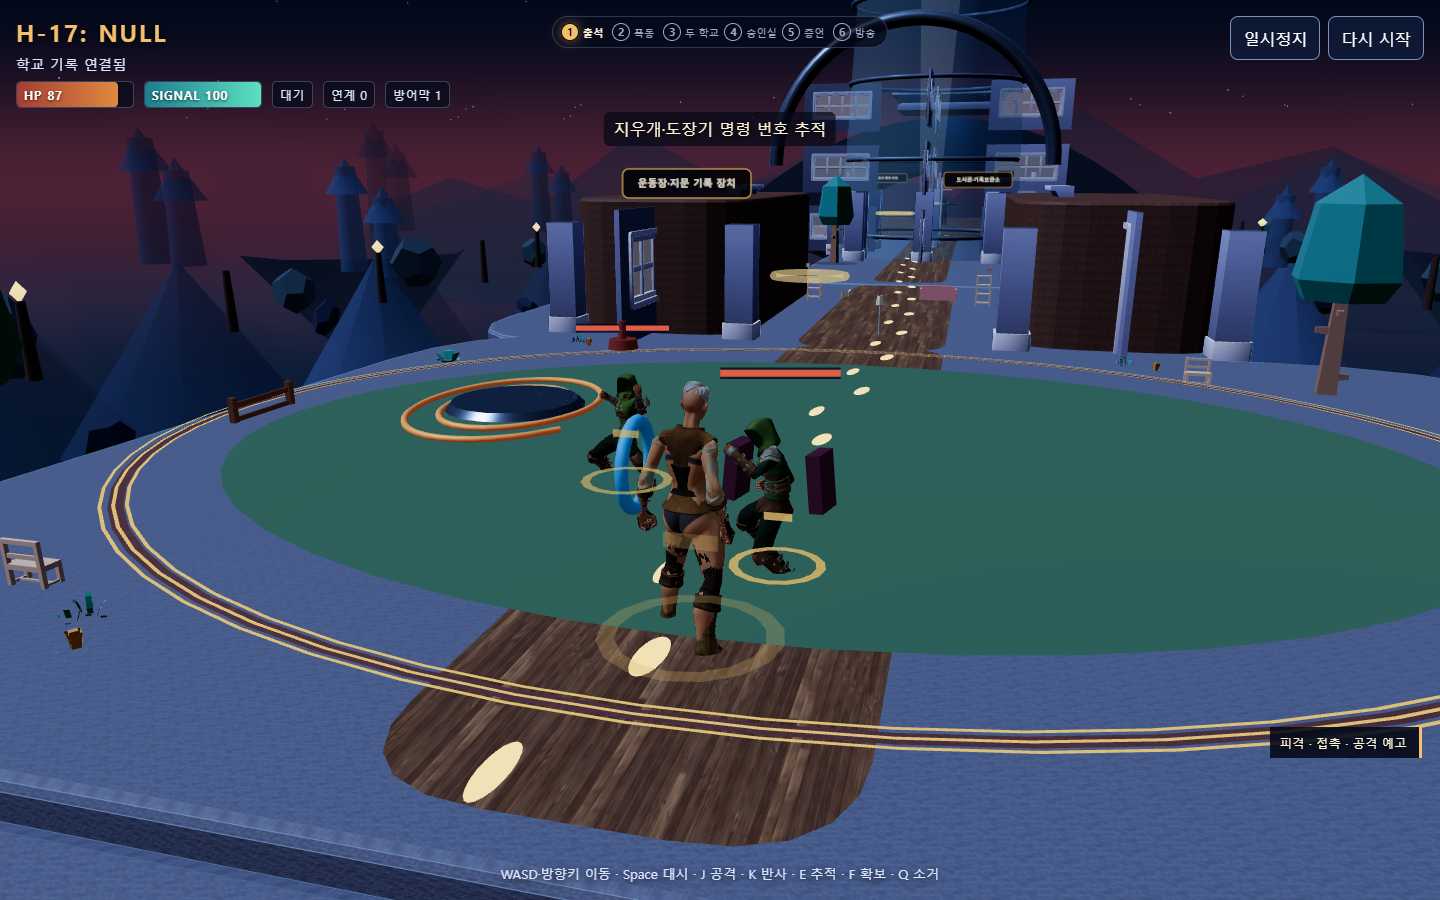
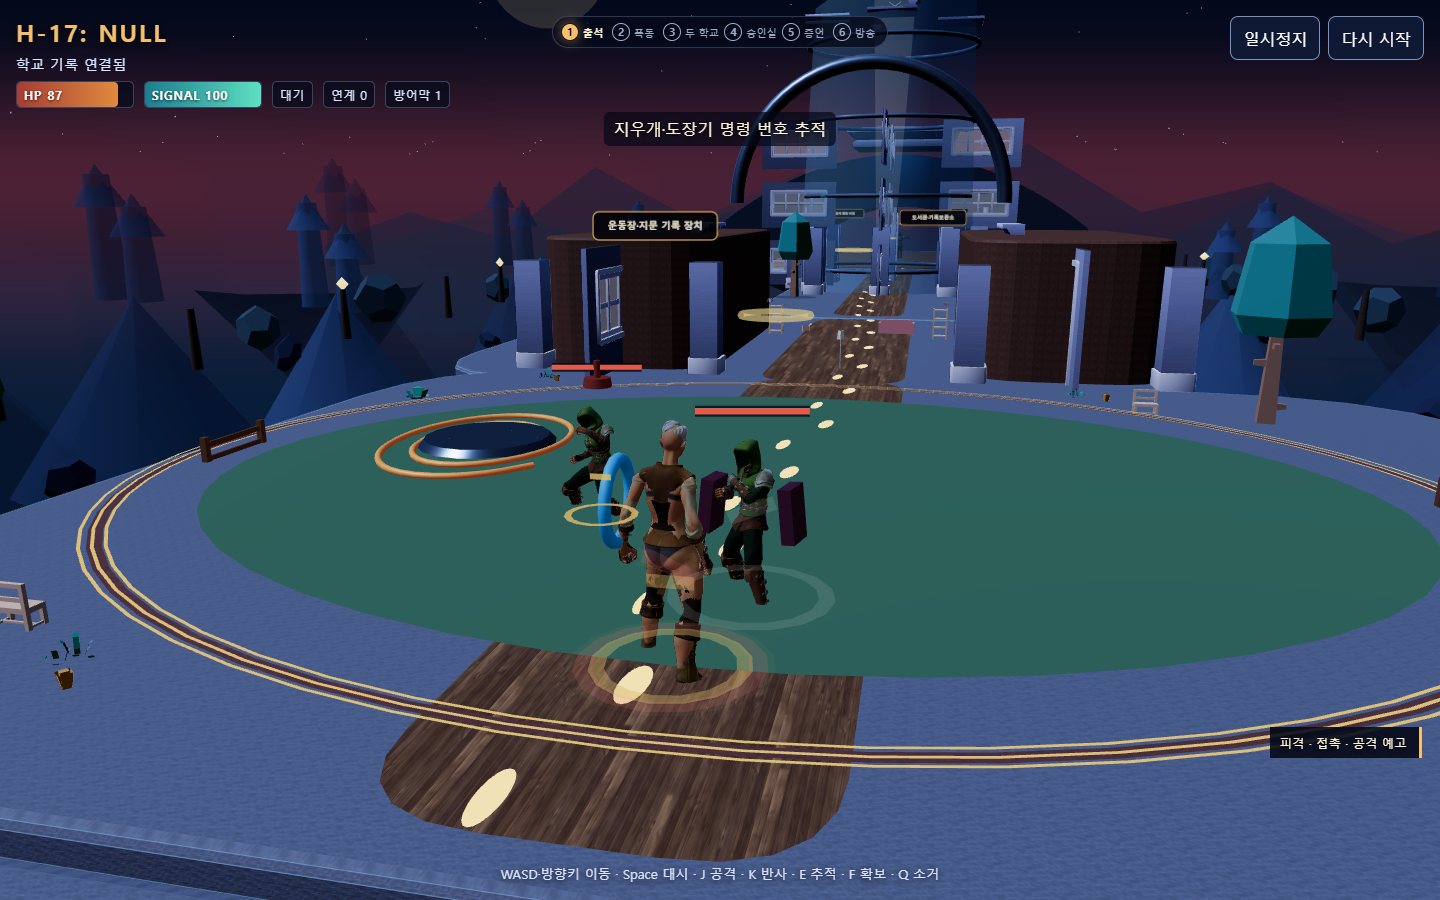
feat(reboot): frame the chapter one campus vista

diff --git a/src/reboot/render/schoolSceneCamera.js b/src/reboot/render/schoolSceneCamera.js
@@ -117,21 +117,36 @@ export function updateSchoolCamera({
   const profile = viewport.mode === 'touch'
     ? CAMPUS_VISUAL_PROFILE.camera.touch
     : CAMPUS_VISUAL_PROFILE.camera.desktop;
+  const firstVista = mode === 'route' && currentSegment.id === 'classroom-cold-open'
+    ? profile.firstVista
+    : null;
   const heightShift = mode === 'boss' ? 2 : 0;
   const distanceShift = mode === 'boss' ? 5 : 0;
-  const routeDistanceShift = mode === 'route' ? profile.routeDistanceShift ?? 0 : 0;
-  const routeLateralShift = mode === 'route' ? profile.routeLateralShift ?? 0 : 0;
-  const routeLookLift = mode === 'route' ? profile.routeLookLift ?? 0 : 0;
+  const routeDistanceShift = mode === 'route'
+    ? firstVista?.distanceShift ?? profile.routeDistanceShift ?? 0
+    : 0;
+  const routeHeightShift = mode === 'route' ? firstVista?.heightShift ?? 0 : 0;
+  const routeLateralShift = mode === 'route'
+    ? firstVista?.lateralShift ?? profile.routeLateralShift ?? 0
+    : 0;
+  const routeLookLateral = mode === 'route' ? firstVista?.lookLateral ?? 0 : 0;
+  const routeLookLift = mode === 'route'
+    ? firstVista?.lookLift ?? profile.routeLookLift ?? 0
+    : 0;
   camera.position.set(
     next.position.x + routeLateralShift,
-    next.position.y - heightShift,
+    next.position.y - heightShift - routeHeightShift,
     next.position.z - distanceShift + routeDistanceShift
   );
   camera.fov = mode === 'arena'
     ? portraitArena ? 66 : 50
-    : mode === 'boss' ? 36 : profile.routeFov ?? next.fov;
+    : mode === 'boss' ? 36 : firstVista?.fov ?? profile.routeFov ?? next.fov;
   camera.updateProjectionMatrix();
-  camera.lookAt(next.lookAt.x, next.lookAt.y + routeLookLift, next.lookAt.z);
+  camera.lookAt(
+    next.lookAt.x + routeLookLateral,
+    next.lookAt.y + routeLookLift,
+    next.lookAt.z
+  );
   return Object.freeze({
     cameraState: next,
     combatSafeArea: inspectCombatSafeArea(camera, targets, viewport, mode),

diff --git a/src/reboot/content/campus/chapterOneCampus.js b/src/reboot/content/campus/chapterOneCampus.js
@@ -124,7 +124,7 @@ export const CAMPUS_FIRST_VISTA_ASSET_PLACEMENTS = Object.freeze([
   vistaPlacement('campus-bush', 'right', { x: 3.25, y: 0, z: 2.75 }, 1, -0.7),
   vistaPlacement('campus-grass', 'right', { x: 4.1, y: 0.02, z: 3.1 }, 1.02, 0.6),
   vistaPlacement('memory-flower', 'right', { x: 3.55, y: 0.03, z: 3.25 }, 1.45, -0.1),
-  vistaPlacement('campus-tree', 'right', { x: 5.35, y: 0.12, z: 5.05 }, 2.6, 0.28),
+  vistaPlacement('campus-tree', 'right', { x: 5.7, y: 0.1, z: 1.4 }, 1.65, 0.28),
   vistaPlacement('campus-rock', 'right', { x: 4.85, y: 0.34, z: 5.8 }, 1.55, -0.55),
   vistaPlacement('campus-bush', 'right', { x: 4.45, y: 0.44, z: 4.8 }, 1.75, 0.45),
   vistaPlacement('campus-grass', 'right', { x: 5.55, y: 0.2, z: 3.7 }, 1.6, -0.82),

diff --git a/tests/reboot-design-tokens.test.js b/tests/reboot-design-tokens.test.js
@@ -29,6 +29,10 @@ test('제품 루트에 같은 토큰을 CSS 사용자 속성으로 적용한다'
 test('P0 캠퍼스 시각 프로필은 어깨너머 카메라와 황혼 대기 램프를 한 계약으로 고정한다', () => {
   assert.deepEqual(CAMPUS_VISUAL_PROFILE.camera.desktop, {
     distance: 7.2, fov: 42, height: 2.55, lateral: 2.35,
+    firstVista: {
+      distanceShift: 1.15, fov: 42, heightShift: 0.18,
+      lateralShift: 2.45, lookLateral: 1.4, lookLift: 1.25
+    },
     routeDistanceShift: 1.8, routeFov: 46, routeLateralShift: 0.05, routeLookLift: 1.5
   });
   assert.deepEqual(CAMPUS_VISUAL_PROFILE.atmosphere, {

diff --git a/src/reboot/design/tokens.js b/src/reboot/design/tokens.js
@@ -26,6 +26,14 @@ export const CAMPUS_VISUAL_PROFILE = Object.freeze({
     desktop: Object.freeze({
       distance: 7.2,
       fov: 42,
+      firstVista: Object.freeze({
+        distanceShift: 1.15,
+        fov: 42,
+        heightShift: 0.18,
+        lateralShift: 2.45,
+        lookLateral: 1.4,
+        lookLift: 1.25
+      }),
       height: 2.55,
       lateral: 2.35,
       routeDistanceShift: 1.8,
